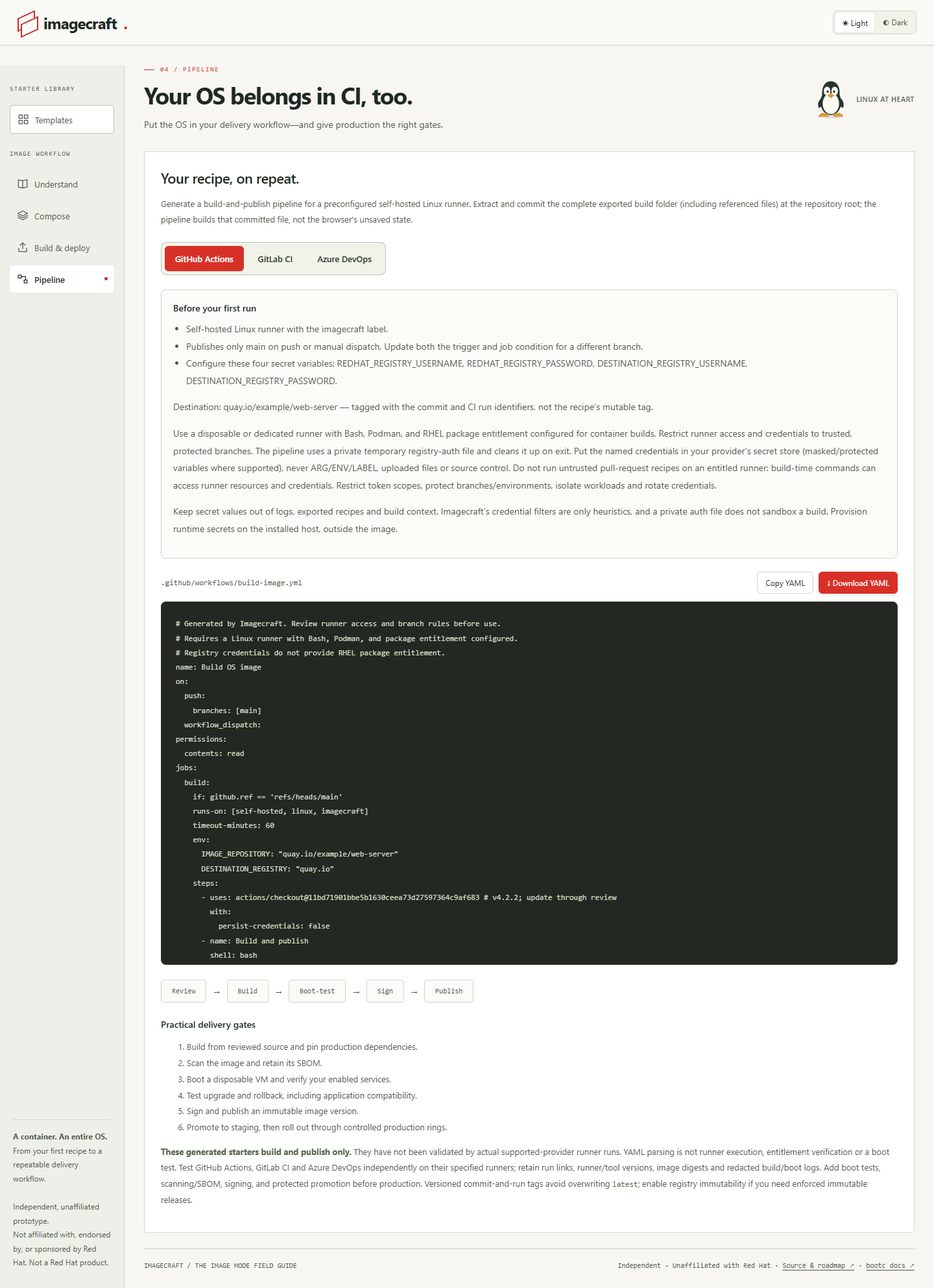
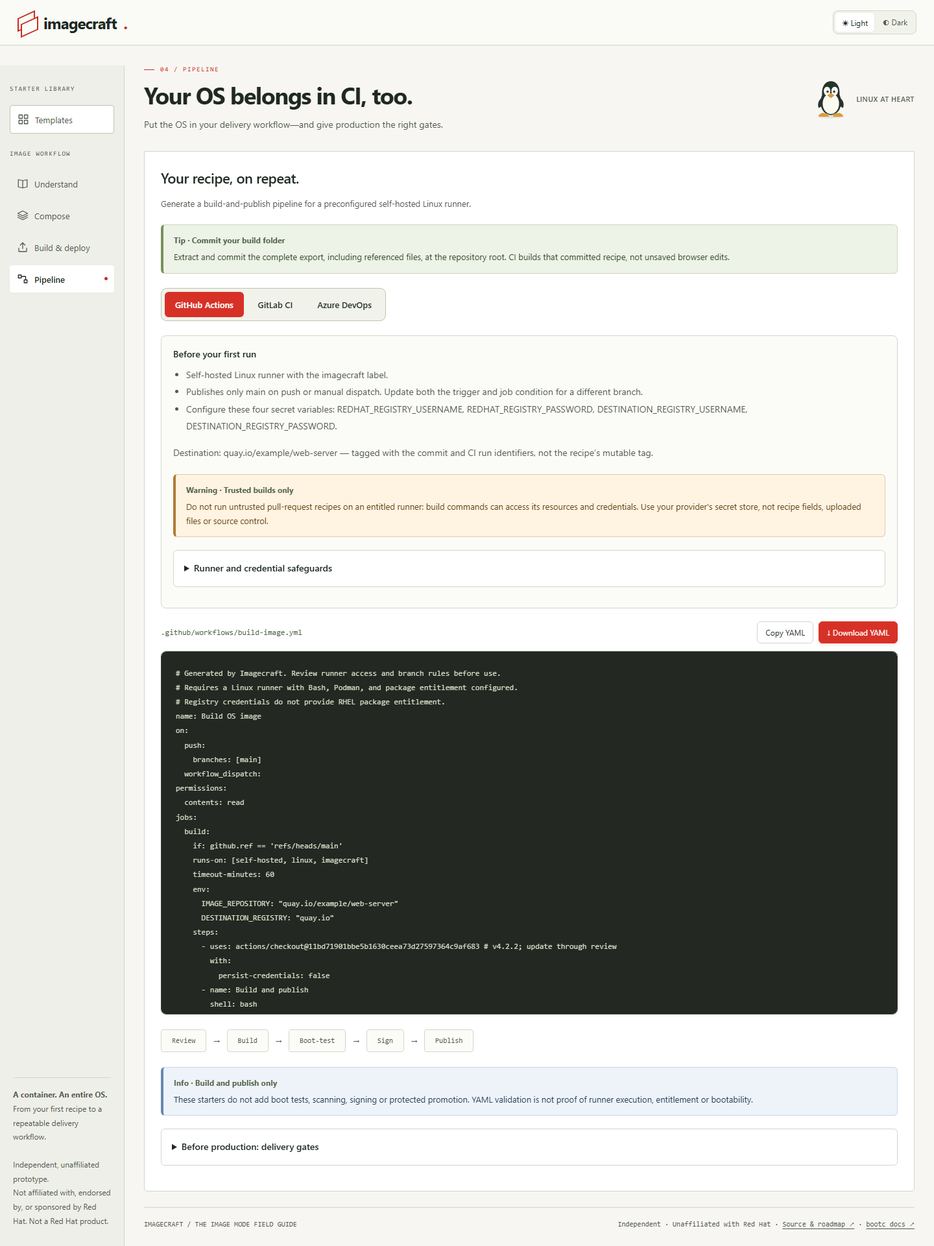
Polish guidance and copyable command terminals

diff --git a/public/index.html b/public/index.html
@@ -249,6 +249,33 @@ a.brand{color:var(--ink);text-decoration:none}
 a.brand:focus-visible,.landing-actions a:focus-visible{outline:3px solid var(--accent);outline-offset:4px}
 .recipe-options{padding:14px;border:1px solid var(--control);border-radius:4px;margin-bottom:16px;min-width:0;font-size:12px;line-height:1.6}.recipe-options summary{cursor:pointer;font-weight:600}.recipe-options label,.row-body label{display:block;font-size:12px;margin:8px 0}.recipe-options input:not([type=checkbox]),.recipe-options select,.row-body select{display:block;width:100%;min-width:0;padding:9px;background:var(--field);color:var(--ink);border:1px solid var(--control);border-radius:4px;font:12px var(--mono)}.recipe-options .hidden{display:none}.recipe-options pre{white-space:pre-wrap;overflow-wrap:anywhere;font-size:11px}.recipe-options .actions,.add-row{flex-wrap:wrap}.recipe-options .actions{gap:8px}.recipe-options .actions label{width:100%}.row-body input[type=file]{font-size:12px}.recipe-options button:focus-visible,.recipe-options input:focus-visible,.recipe-options select:focus-visible,.row-body select:focus-visible{outline:2px solid var(--green);outline-offset:2px}
 .skip-link{position:absolute;left:16px;top:-100px;z-index:5;padding:12px;background:var(--panel);color:var(--ink)}.skip-link:focus{top:12px}summary:focus-visible,h1:focus-visible,[tabindex="0"]:focus-visible{outline:2px solid var(--accent);outline-offset:4px}body[data-design="hybrid"] select:focus-visible{outline:2px solid var(--green);outline-offset:2px}[hidden]{display:none!important}
+body[data-design="hybrid"] .callout{margin:20px 0;padding:14px 16px;border:1px solid #c6d6e9;border-left:4px solid #6788af;border-radius:6px;background:#eef3fa;color:#263b57;font-size:13px;line-height:1.65}
+body[data-design="hybrid"] .callout strong{display:block;margin-bottom:4px;font-size:12px}
+body[data-design="hybrid"] .callout p{margin:0;color:inherit;font-size:13px}
+body[data-design="hybrid"] .callout-tip{background:#edf3e7;border-color:#cad8bb;border-left-color:#78915b;color:#344629}
+body[data-design="hybrid"] .callout-warning{background:#fff3e2;border-color:#e3caa7;border-left-color:#b07c37;color:#654516}
+body[data-design="hybrid"][data-color-mode="dark"] .callout{background:#202d3c;border-color:#3c536d;border-left-color:#89acd5;color:#d0e0f3}
+body[data-design="hybrid"][data-color-mode="dark"] .callout-tip{background:#243120;border-color:#435837;border-left-color:#a7c58b;color:#d7e8c8}
+body[data-design="hybrid"][data-color-mode="dark"] .callout-warning{background:#362b1e;border-color:#665136;border-left-color:#d3ac70;color:#f3dbb4}
+body[data-design="hybrid"] .guide-details{margin:14px 0;border:1px solid var(--line);border-radius:6px;padding:0 16px;background:var(--panel)}
+body[data-design="hybrid"] .guide-details summary{cursor:pointer;padding:14px 0;font-weight:600;font-size:14px;color:var(--ink)}
+body[data-design="hybrid"] .guide-details[open]{padding-bottom:8px}
+body[data-design="hybrid"] .guide-details p{font-size:14px;line-height:1.8}
+body[data-design="hybrid"] .terminal{margin:22px 0;border:1px solid var(--code-edge);border-radius:9px;overflow:hidden;background:var(--code-bg);color:var(--code-ink);box-shadow:0 8px 24px #00000016}
+body[data-design="hybrid"] .terminal-bar{display:flex;align-items:center;gap:10px;padding:11px 14px;background:var(--code-head);border-bottom:1px solid var(--code-edge);font:11px var(--mono);color:var(--code-ink)}
+body[data-design="hybrid"] .terminal-lights{display:flex;gap:5px;flex-shrink:0}
+body[data-design="hybrid"] .terminal-lights i{width:8px;height:8px;border-radius:50%;background:#e78575}
+body[data-design="hybrid"] .terminal-lights i:nth-child(2){background:#d6b469}
+body[data-design="hybrid"] .terminal-lights i:nth-child(3){background:#91b577}
+body[data-design="hybrid"] .terminal-title{flex:1;min-width:0}
+body[data-design="hybrid"] .terminal-output{padding:10px 14px;outline-offset:-3px}
+body[data-design="hybrid"] .terminal-line{display:grid;grid-template-columns:12px minmax(0,1fr) auto;gap:10px;align-items:start;padding:7px 0}
+body[data-design="hybrid"] .terminal-prompt{color:#b1c59b;font:12px/26px var(--mono);user-select:none}
+body[data-design="hybrid"] .terminal-line code{display:block;background:none;color:var(--code-ink);padding:0;border:0;overflow-x:auto;white-space:pre;font:12px/26px var(--mono)}
+body[data-design="hybrid"] .terminal-note{color:var(--code-comment);font:11px/1.7 var(--mono);padding:7px 0;overflow-wrap:anywhere}
+body[data-design="hybrid"] .terminal .button{background:var(--code-head);border-color:var(--code-edge);color:var(--code-ink);font-size:11px;padding:5px 8px;white-space:nowrap}
+body[data-design="hybrid"] .terminal .button:hover:not(:disabled){background:#394433;border-color:#718560}
+@media(max-width:600px){body[data-design="hybrid"] .terminal-bar{flex-wrap:wrap}body[data-design="hybrid"] .terminal-output{padding:8px 10px}body[data-design="hybrid"] .terminal-line{gap:7px}body[data-design="hybrid"] .terminal-line code{font-size:11px}body[data-design="hybrid"] .callout{padding:12px}body[data-design="hybrid"] .guide-details{padding-left:12px;padding-right:12px}}
 </style></head><body>
 <a class="skip-link" href="#headline">Skip to current section</a>
 <header class="top"><a class="brand" href="/" data-view="learn" aria-label="Imagecraft home — Understand"><span class="mark" aria-hidden="true"></span>imagecraft<em>.</em></a><div class="top-right"><div class="mode-switch" role="group" aria-label="Color mode"><button type="button" data-mode="light" aria-pressed="true">☀ Light</button><button type="button" data-mode="dark" aria-pressed="false">◐ Dark</button></div></div></header>
@@ -274,23 +301,40 @@ a.brand:focus-visible,.landing-actions a:focus-visible{outline:3px solid var(--a
 <div class="lint"><span><span class="lock">⌑</span> &nbsp; Final compatibility check</span><code>bootc container lint</code></div><p class="layout-note">Drag a step into place, or use ↑ ↓. FROM stays first; the check stays last.<br>Recipe text is saved in this browser; file bytes remain in memory only. Nothing is executed.</p>
 </div><div class="preview-wrap"><div class="preview"><div class="preview-head"><strong id="preview-file">Containerfile</strong><span class="live">LIVE PREVIEW</span></div><div class="preview-tabs"><button class="selected" data-tab="container" aria-pressed="true">Containerfile</button><button data-tab="build" aria-pressed="false">Build &amp; push</button></div><div class="code" id="code" tabindex="0" role="region" aria-label="Generated recipe preview"></div><div class="preview-footer"><span id="code-status">4 ordered steps · 1 base · 1 check</span><button class="mini-copy" id="copy">▢ Copy</button></div></div><div class="explanation"><span class="spark">✳</span><div><strong>Order is part of the recipe.</strong>Each row becomes an explicit instruction in its stage, in the order you choose. Install software before commands that need it. Drag the six-dot handle to rearrange steps. The red line marks the drop position; ↑ / ↓ also work.</div></div></div></div></section>
 <section class="view hidden" id="view-templates"><div class="templates-intro"><div><h2>A head start, not a black box.</h2><p>Pick a starter. Inspect every step. Make it yours.</p></div><span class="badge">6 STARTER RECIPES</span></div><div class="template-grid" id="template-grid"></div><p class="layout-note">Templates are illustrative starting points, not hardened or production-validated appliances. Your selected RHEL version is retained. Loading a template replaces the current rows after confirmation.</p></section>
-<section class="view hidden" id="view-learn"><article class="reading"><div class="landing-actions" aria-label="Start building"><a class="button primary" href="?view=compose" data-view="compose">Start composing →</a><a href="?view=compose" data-view="compose">Compose</a><a href="?view=pipeline" data-view="pipeline">Pipeline →</a></div><h2>Container tooling. A whole operating system.</h2><p>RHEL image mode uses a bootc base image containing the kernel and userspace. Define the OS with a Containerfile, publish it to an OCI registry, then install it on a VM or physical host. This is not an ordinary application container: preserve the bootc base's startup and user defaults.</p><div class="mini-flow" aria-label="Image lifecycle"><span>Compose</span>→<span>Build</span>→<span>Publish</span>→<span>Boot</span>→<span>Update</span></div>
-<h3>Instructions are ordered, and stages have boundaries</h3><p><strong>Packages and commands</strong> become build-time <code>RUN</code> instructions. Install software before commands that need it. <strong>Services</strong> enable systemd units in the final OS to start at boot; they do not start services during the build.</p><p><code>LABEL</code> is public image metadata. <code>ARG</code> is a stage-scoped build option: declare it in every stage that needs it. <code>ENV</code> persists in that image stage and influences later commands; it is not a guarantee of a systemd service's runtime environment. <code>WORKDIR</code> sets/creates the directory for later instructions in its stage; it does not set the OS boot behavior.</p><p>Add named builders in Compose's options, assign their rows, then order builders before the final OS. Artifact <code>COPY</code> can copy a file only from an earlier builder. Only explicitly copied artifacts enter the final OS; builder ARG, ENV and WORKDIR settings do not transfer. Match the target architecture and RHEL ABI (including linked libraries) and review each builder base independently. Pinning the final OS does not pin builders or package versions.</p>
-<h3>Local files, permissions and build context</h3><p>Ordered <code>COPY</code> steps include a selected local regular file, a safe <code>files/</code> source path, an explicit absolute destination file path and octal permissions (for example <code>0644</code> for configuration or <code>0755</code> for an executable). Unlike ADD, COPY does not implicitly download or extract archives. Ownership, service access and SELinux contexts still need review: chmod alone does not set a correct SELinux label. Test access under enforcing SELinux on the installed RHEL system; do not disable SELinux to make a recipe pass.</p><p>Export the complete build folder (.tar) to include the Containerfile, referenced files, allowlist <code>.containerignore</code>/<code>.dockerignore</code> rules and selected provider YAML. Extract into a new empty folder, inspect everything, and build from that folder or commit it at the repository root. A standalone Containerfile download does not include COPY inputs.</p>
+<section class="view hidden" id="view-learn"><article class="reading"><div class="landing-actions" aria-label="Start building"><a class="button primary" href="?view=compose" data-view="compose">Start composing →</a><a href="?view=compose" data-view="compose">Compose</a><a href="?view=pipeline" data-view="pipeline">Pipeline →</a></div><h2>Container tooling. A whole operating system.</h2><p>Start with a bootc base containing the kernel and userspace. Define your OS in a Containerfile, publish it to a registry, then install it on a VM or physical host. Unlike an application container, it keeps the base's startup and user defaults.</p><div class="mini-flow" aria-label="Image lifecycle"><span>Compose</span>→<span>Build</span>→<span>Publish</span>→<span>Boot</span>→<span>Update</span></div>
+<p>Imagecraft writes recipes; it never executes them.</p>
+<aside class="callout callout-tip" role="note" aria-label="Tip: start small"><strong>Tip · Start small</strong><p>Choose a starter, add your packages, then review the generated Containerfile. Commands run during the build; enabled services start when the installed OS boots.</p></aside>
+<aside class="callout callout-warning" role="note" aria-label="Warning: keep secrets outside the image"><strong>Warning · Keep secrets outside the image</strong><p>Never put credentials in commands, ARG, ENV, LABEL or selected files. Image layers and exported recipes can expose them; deleting a file in a later layer does not securely remove it. Secret checks are incomplete.</p></aside>
+<aside class="callout" role="note" aria-label="Info: rollback does not restore data"><strong>Info · OS rollback is not data recovery</strong><p>Rollback does not restore <code>/var</code> or undo schema migrations. Test upgrade and rollback with representative data, and rehearse restoring backups.</p></aside>
+<details class="guide-details"><summary>Instructions and builder stages</summary><p><strong>Packages and commands</strong> become build-time <code>RUN</code> instructions. Install software before commands that need it. <strong>Services</strong> enable systemd units in the final OS to start at boot; they do not start services during the build.</p><p><code>LABEL</code> is public image metadata. <code>ARG</code> is a stage-scoped build option: declare it in every stage that needs it. <code>ENV</code> persists in that image stage and influences later commands; it is not a guarantee of a systemd service's runtime environment. <code>WORKDIR</code> sets/creates the directory for later instructions in its stage; it does not set the OS boot behavior.</p><p>Add named builders in Compose's options, assign their rows, then order builders before the final OS. Artifact <code>COPY</code> can copy a file only from an earlier builder. Only explicitly copied artifacts enter the final OS; builder ARG, ENV and WORKDIR settings do not transfer. Match the target architecture and RHEL ABI (including linked libraries) and review each builder base independently. Pinning the final OS does not pin builders or package versions.</p>
+</details>
+<details class="guide-details"><summary>Local files, permissions and portable recipes</summary><p>Ordered <code>COPY</code> steps include a selected local regular file, a safe <code>files/</code> source path, an explicit absolute destination file path and octal permissions (for example <code>0644</code> for configuration or <code>0755</code> for an executable). Unlike ADD, COPY does not implicitly download or extract archives. Ownership, service access and SELinux contexts still need review: chmod alone does not set a correct SELinux label. Test access under enforcing SELinux on the installed RHEL system; do not disable SELinux to make a recipe pass.</p><p>Export the complete build folder (.tar) to include the Containerfile, referenced files, allowlist <code>.containerignore</code>/<code>.dockerignore</code> rules and selected provider YAML. Extract into a new empty folder, inspect everything, and build from that folder or commit it at the repository root. A standalone Containerfile download does not include COPY inputs.</p>
 <h3>Portability is explicit, not a backup service</h3><p>Recipe text and preferences are saved in this browser; file bytes stay in memory only. Reloading requires file reselection. Portable JSON includes referenced file bytes as base64 and can move a recipe between browsers after review. Limits: 5 MiB per file, 20 MiB total file bytes, 30 MiB JSON import, 100 steps and 10 builders. The versioned format is <code>imagecraft-recipe</code>, schema version 2; unsupported versions are rejected. Neither export encrypts its contents.</p>
-<h3>Secrets belong outside the image</h3><p>Never put passwords, tokens, private keys or registry authentication in commands, ARG, ENV, LABEL, selected files, portable recipes or committed build folders. Build arguments and image layers/metadata can expose them; deleting a file in a later layer is not secure removal. Configure CI credentials in the provider's secret store, and provision machine-specific runtime secrets separately on the target. Path and credential checks are conservative heuristics, not comprehensive secret detection. Review all text and file bytes yourself, including imported recipes. Imagecraft neither accepts build credentials nor executes recipes.</p>
-<h3>Configuration is not persistent application data</h3><p><code>/etc</code> contains system configuration; image defaults and local administrator changes participate in bootc's configuration merge behavior. Test conflicts when an update changes a locally modified file. <code>/var</code> holds persistent runtime state shared across deployments. Do not assume files baked under /var will replace existing databases, logs or application data during upgrades. Plan initialization, migrations, backups and restore separately.</p><p>An OS rollback switches the deployment; <strong>it does not roll back application data</strong>. A newer application may migrate data that the previous version cannot read. Test both upgrade and rollback against representative state and rehearse restoring backups.</p>
+</details>
+<details class="guide-details"><summary>Configuration, persistent state and base updates</summary><h3>Configuration is not persistent application data</h3><p><code>/etc</code> contains system configuration; image defaults and local administrator changes participate in bootc's configuration merge behavior. Test conflicts when an update changes a locally modified file. <code>/var</code> holds persistent runtime state shared across deployments. Do not assume files baked under /var will replace existing databases, logs or application data during upgrades. Plan initialization, migrations, backups and restore separately.</p><p>An OS rollback switches the deployment; <strong>it does not roll back application data</strong>. A newer application may migrate data that the previous version cannot read. Test both upgrade and rollback against representative state and rehearse restoring backups.</p>
 <h3>Review immutable bases, then test deliberate updates</h3><p>Compose can apply a manually reviewed <code>sha256</code> base digest. Inspect the candidate on your own authenticated host, verify its architecture and provenance, record the old digest, then apply the pin explicitly. It never refreshes automatically and changing RHEL version clears it. A digest fixes the base reference, not entitlement, package repositories, builder outputs or overall reproducibility. Rebuild and boot-test each candidate before promotion; keep the previous known-good image digest and a data recovery plan.</p>
-<h3>Checks have limits</h3><p>All six starters are illustrative, not production-validated appliances. Input validation and optional local review checks do not verify package availability, shell correctness, entitlement, successful builds or bootability. Automated accessibility checks do not establish WCAG compliance or replace screen-reader and user feedback.</p><p><a href="https://developers.redhat.com/products/rhel-image-mode/getting-started" target="_blank" rel="noopener">Red Hat getting-started guide ↗</a> · <a href="https://bootc-dev.github.io/bootc/filesystem.html" target="_blank" rel="noopener">bootc filesystem and persistent state ↗</a> · <a href="https://bootc-dev.github.io/bootc/man/bootc-upgrade.8.html" target="_blank" rel="noopener">bootc upgrade reference ↗</a></p></article></section>
-<section class="view hidden" id="view-build"><article class="reading"><h2>Start with a disposable Linux build host.</h2><p>You need Podman, Red Hat registry access, package repository entitlement, and write access to your destination registry. Registry authentication and package entitlement are separate prerequisites.</p><pre id="build-code"></pre><h3>For the first installation</h3><p>Use <code>bootc-image-builder</code> to derive a disk or installer artifact from the OCI image. Provide users, disk layout, and target-specific configuration. Provision the VM or hardware from that artifact; later OS updates come from the registry.</p><h3>Before rollout</h3><p>Review the complete exported build folder, not just the preview. Resolve package entitlement inside the build separately from registry login. On a disposable VM, verify first boot, users, services, network/firewall behavior and SELinux permissions/contexts. Keep an immutable destination digest, build logs and tested previous deployment. The final <code>bootc container lint</code> is not a boot test.</p><h3>After installation</h3><p>Inspect the current deployment and target with <code>bootc status</code>. Stage an upgrade only after reviewing and boot-testing the candidate on staging. A host following a digest needs a deliberate target change; <code>bootc upgrade</code> does not magically discover a new digest. Follow the selected RHEL release's bootc documentation for target changes and approval policy. Reboot during a maintenance window, then verify health again.</p><pre>sudo bootc status
+</details>
+<details class="guide-details"><summary>Credentials, check limits and further reading</summary><p>Keep passwords, tokens, private keys and registry authentication out of portable recipes and committed build folders. Use your CI provider's secret store and provision machine-specific runtime secrets on the target, outside the image. Review every instruction and file byte, including imports: credential and path filters are heuristics, not comprehensive detection. Imagecraft neither accepts build credentials nor executes recipes.</p><p>All six starters are illustrative, not production-validated appliances. Local checks do not verify package availability, shell correctness, entitlement, successful builds or bootability. Automated accessibility checks do not establish WCAG compliance or replace screen-reader and user feedback.</p><p><a href="https://developers.redhat.com/products/rhel-image-mode/getting-started" target="_blank" rel="noopener">Red Hat getting-started guide ↗</a> · <a href="https://bootc-dev.github.io/bootc/filesystem.html" target="_blank" rel="noopener">bootc filesystem and persistent state ↗</a> · <a href="https://bootc-dev.github.io/bootc/man/bootc-upgrade.8.html" target="_blank" rel="noopener">bootc upgrade reference ↗</a></p></details></article></section>
+<section class="view hidden" id="view-build"><article class="reading"><h2>Build on Linux. Test before rollout.</h2><p>Use a disposable Linux host with Podman, Red Hat registry access, package entitlement and write access to your destination registry.</p>
+<aside class="callout callout-tip" role="note" aria-label="Tip: use the complete build folder"><strong>Tip · Use the complete build folder</strong><p>Export and inspect the build folder, then extract it into a new empty directory. Run the build there: a standalone Containerfile does not include your COPY inputs.</p></aside>
+<aside class="callout" role="note" aria-label="Info: authentication and entitlement are separate"><strong>Info · Login is not package entitlement</strong><p>Registry login authenticates pulls and pushes. Configure RHEL package repository entitlement inside the build separately.</p></aside>
+<div class="warning hidden" id="build-error" role="status"></div>
+<div class="terminal"><div class="terminal-bar"><span class="terminal-lights" aria-hidden="true"><i></i><i></i><i></i></span><span class="terminal-title">Build host · Bash</span><button type="button" class="button" id="build-copy" aria-describedby="build-error">Copy commands</button></div><div class="terminal-output" id="build-code" tabindex="0" role="region" aria-label="Build host commands" aria-describedby="build-error"></div></div>
+<h3>First installation</h3><p>Use <code>bootc-image-builder</code> to create a disk or installer artifact from your OCI image. Configure users, disk layout and the target, then provision the VM or hardware. Later OS updates come from the registry.</p>
+<aside class="callout callout-warning" role="note" aria-label="Warning: lint is not a boot test"><strong>Warning · Lint is not a boot test</strong><p>Before rollout, boot a disposable VM. Verify users, services, networking, firewall rules and enforcing SELinux access. Retain build logs, an immutable image digest and a tested previous deployment.</p></aside>
+<h3>Update an installed host</h3><p>Review the deployment and target first. Boot-test the candidate on staging; a digest-pinned host needs a deliberate target change before an upgrade. Follow your RHEL release's target-change and approval instructions.</p>
+<div class="terminal"><div class="terminal-bar"><span class="terminal-lights" aria-hidden="true"><i></i><i></i><i></i></span><span class="terminal-title">Installed host · Update</span></div><div class="terminal-output" id="update-code" tabindex="0" role="region" aria-label="Installed host update commands">sudo bootc status
 sudo bootc upgrade
-# Activate in a maintenance window:
-sudo systemctl reboot
-
-# Prepare a previous-deployment rollback:
+# Activate only in a maintenance window:
+sudo systemctl reboot</div></div>
+<h3>Roll back if needed</h3><p>Rollback needs an available previous deployment and a reboot. After either update or rollback, verify the active digest and service health and retain recovery evidence.</p>
+<aside class="callout callout-warning" role="note" aria-label="Warning: rollback does not restore data"><strong>Warning · Rollback does not restore data</strong><p>It does not restore <code>/var</code> or undo schema migrations. Back up data and test application compatibility with both deployments before rollout.</p></aside>
+<div class="terminal"><div class="terminal-bar"><span class="terminal-lights" aria-hidden="true"><i></i><i></i><i></i></span><span class="terminal-title">Installed host · Rollback</span></div><div class="terminal-output" id="rollback-code" tabindex="0" role="region" aria-label="Installed host rollback commands">sudo bootc status
 sudo bootc rollback
-sudo systemctl reboot</pre><p>These commands run on an installed bootc host, not in Imagecraft. Rollback requires an available previous deployment and another reboot; it does not restore /var data or undo schema migrations. Back up data and verify compatibility with both deployments before rollout. Check the active digest and service health after reboot, and retain recovery evidence.</p><p><strong>Execution is deliberately out of scope here.</strong> No RHEL build or boot validation is performed by this website. Consult the <a href="https://bootc-dev.github.io/bootc/" target="_blank" rel="noopener">official bootc documentation ↗</a> and your RHEL release's installation/update instructions.</p></article></section>
-<section class="view hidden" id="view-pipeline"><article class="reading"><h2>Your recipe, on repeat.</h2><p>Generate a build-and-publish pipeline for a preconfigured self-hosted Linux runner. Extract and commit the complete exported build folder (including referenced files) at the repository root; the pipeline builds that committed file, not the browser's unsaved state.</p><div class="provider-switch" role="group" aria-label="Pipeline provider"><button type="button" data-provider="github" aria-pressed="true">GitHub Actions</button><button type="button" data-provider="gitlab" aria-pressed="false">GitLab CI</button><button type="button" data-provider="azure" aria-pressed="false">Azure DevOps</button></div><div class="pipeline-setup"><h3>Before your first run</h3><ul id="pipeline-requirements"></ul><p id="pipeline-target"></p><p>Use a disposable or dedicated runner with Bash, Podman, and RHEL package entitlement configured for container builds. Restrict runner access and credentials to trusted, protected branches. The pipeline uses a private temporary registry-auth file and cleans it up on exit. Put the named credentials in your provider's secret store (masked/protected variables where supported), never ARG/ENV/LABEL, uploaded files or source control. Do not run untrusted pull-request recipes on an entitled runner: build-time commands can access runner resources and credentials. Restrict token scopes, protect branches/environments, isolate workloads and rotate credentials.</p><p>Keep secret values out of logs, exported recipes and build context. Imagecraft's credential filters are only heuristics, and a private auth file does not sandbox a build. Provision runtime secrets on the installed host, outside the image.</p></div><div class="warning hidden" id="pipeline-error" role="alert"></div><div class="pipeline-toolbar"><code id="pipeline-filename"></code><div class="actions"><button type="button" class="button" id="pipeline-copy">Copy YAML</button><button type="button" class="button primary" id="pipeline-download">↓ Download YAML</button></div></div><pre class="pipeline-output" id="pipeline-code" tabindex="0" role="region" aria-label="Generated pipeline YAML"></pre><div class="mini-flow"><span>Review</span>→<span>Build</span>→<span>Boot-test</span>→<span>Sign</span>→<span>Publish</span></div><h3>Practical delivery gates</h3><ol><li>Build from reviewed source and pin production dependencies.</li><li>Scan the image and retain its SBOM.</li><li>Boot a disposable VM and verify your enabled services.</li><li>Test upgrade and rollback, including application compatibility.</li><li>Sign and publish an immutable image version.</li><li>Promote to staging, then roll out through controlled production rings.</li></ol><p><strong>These generated starters build and publish only.</strong> They have not been validated by actual supported-provider runner runs. YAML parsing is not runner execution, entitlement verification or a boot test. Test GitHub Actions, GitLab CI and Azure DevOps independently on their specified runners; retain run links, runner/tool versions, image digests and redacted build/boot logs. Add boot tests, scanning/SBOM, signing, and protected promotion before production. Versioned commit-and-run tags avoid overwriting <code>latest</code>; enable registry immutability if you need enforced immutable releases.</p></article></section>
+# Activate only in a maintenance window:
+sudo systemctl reboot</div></div>
+<p>Copying does not run anything. Commands run on your own Linux or installed bootc host; Imagecraft performs no build or boot validation. See the <a href="https://bootc-dev.github.io/bootc/" target="_blank" rel="noopener">official bootc documentation ↗</a> and your RHEL release's instructions.</p></article></section>
+<section class="view hidden" id="view-pipeline"><article class="reading"><h2>Your recipe, on repeat.</h2><p>Generate a build-and-publish pipeline for a preconfigured self-hosted Linux runner.</p><aside class="callout callout-tip" role="note" aria-label="Tip: commit your build folder"><strong>Tip · Commit your build folder</strong><p>Extract and commit the complete export, including referenced files, at the repository root. CI builds that committed recipe, not unsaved browser edits.</p></aside><div class="provider-switch" role="group" aria-label="Pipeline provider"><button type="button" data-provider="github" aria-pressed="true">GitHub Actions</button><button type="button" data-provider="gitlab" aria-pressed="false">GitLab CI</button><button type="button" data-provider="azure" aria-pressed="false">Azure DevOps</button></div><div class="pipeline-setup"><h3>Before your first run</h3><ul id="pipeline-requirements"></ul><p id="pipeline-target"></p><aside class="callout callout-warning" role="note" aria-label="Warning: trusted builds only"><strong>Warning · Trusted builds only</strong><p>Do not run untrusted pull-request recipes on an entitled runner: build commands can access its resources and credentials. Use your provider's secret store, not recipe fields, uploaded files or source control.</p></aside><details class="guide-details"><summary>Runner and credential safeguards</summary><p>Use a disposable or dedicated runner with Bash, Podman and RHEL package entitlement. Restrict access to trusted, protected branches; scope tokens, protect environments, isolate workloads and rotate credentials. Use masked/protected secret variables where supported.</p><p>The pipeline's private temporary registry-auth file is cleaned up on exit, but does not sandbox a build. Keep secrets out of logs, exported recipes and build context. Credential filters are incomplete; provision runtime secrets on the installed host, outside the image.</p></details></div><div class="warning hidden" id="pipeline-error" role="alert"></div><div class="pipeline-toolbar"><code id="pipeline-filename"></code><div class="actions"><button type="button" class="button" id="pipeline-copy">Copy YAML</button><button type="button" class="button primary" id="pipeline-download">↓ Download YAML</button></div></div><pre class="pipeline-output" id="pipeline-code" tabindex="0" role="region" aria-label="Generated pipeline YAML"></pre><div class="mini-flow"><span>Review</span>→<span>Build</span>→<span>Boot-test</span>→<span>Sign</span>→<span>Publish</span></div><aside class="callout" role="note" aria-label="Info: build and publish only"><strong>Info · Build and publish only</strong><p>These starters do not add boot tests, scanning, signing or protected promotion. YAML validation is not proof of runner execution, entitlement or bootability.</p></aside><details class="guide-details"><summary>Before production: delivery gates</summary><ol><li>Build from reviewed source and pin production dependencies.</li><li>Scan the image and retain its SBOM.</li><li>Boot a disposable VM and verify your enabled services.</li><li>Test upgrade and rollback, including application compatibility.</li><li>Sign and publish an immutable image version.</li><li>Promote to staging, then roll out through controlled production rings.</li></ol><p>These starters have not been validated by actual supported-provider runner runs. Test each provider independently on its specified runner; retain run links, tool versions, image digests and redacted build/boot logs. Commit-and-run tags avoid overwriting <code>latest</code>; enable registry immutability for enforced immutable releases.</p></details></article></section>
 <footer class="bottom"><span id="footer-label">IMAGECRAFT / STUDIO EXPLORATION</span><span>Independent · Unaffiliated with Red Hat · <a href="https://github.com/erikgraa/imagecraft" target="_blank" rel="noopener">Source & roadmap ↗</a> · <a href="https://bootc-dev.github.io/bootc/" target="_blank" rel="noopener">bootc docs ↗</a></span></footer></main><div class="toast hidden" id="toast" role="status"></div>
 <script src="./recipe-order.js"></script>
 <script src="./pipeline-generator.js"></script>
@@ -381,8 +425,28 @@ function paintPipeline(){
 document.querySelectorAll('[data-provider]').forEach(button=>button.addEventListener('click',()=>{pipelineProvider=button.dataset.provider;try{localStorage.setItem('imagecraft-pipeline-provider',pipelineProvider);}catch(e){}paintPipeline()}));
 $('pipeline-copy').addEventListener('click',async()=>{if($('pipeline-copy').disabled)return;try{await navigator.clipboard.writeText(generatePipeline(pipelineProvider,recipe.image).content);toast('Pipeline YAML copied')}catch(e){toast('Clipboard unavailable. Download the YAML instead.')}});
 $('pipeline-download').addEventListener('click',()=>{if($('pipeline-download').disabled)return;const artifact=generatePipeline(pipelineProvider,recipe.image),url=URL.createObjectURL(new Blob([artifact.content],{type:'text/yaml'})),link=document.createElement('a');link.href=url;link.download=artifact.filename.split('/').pop();link.click();setTimeout(()=>URL.revokeObjectURL(url),1000);toast('Save as '+artifact.filename)});
-function buildCommands(){if(imageError())return '# Enter a valid image reference to generate build commands.\n';const image=recipe.image.trim(),host=image.split('/')[0];return ['# Linux build host: configure package entitlement separately','podman login registry.redhat.io',`podman build -t ${image} .`,`podman login ${host}`,`podman push ${image}`,'','# Pin an immutable release reference for production'].join('\n')+'\n';}
-function paintCode(){const text=tab==='container'?containerfile():buildCommands();$('code').replaceChildren();let instruction=null;text.trimEnd().split('\n').forEach((line,i)=>{const step=tab==='container'&&line.match(/^# (\d+) \/ /);if(step)instruction=recipe.rows[Number(step[1])-1]?.id;if(line==='# Final compatibility check'||line.startsWith('FROM '))instruction=null;const div=document.createElement('div');div.className='code-line';if(instruction)div.dataset.rowId=instruction;const n=document.createElement('span');n.className='line-number';n.textContent=i+1;const value=document.createElement('span');value.className=line.startsWith('#')?'comment':/^(FROM|RUN|COPY|LABEL|ARG|ENV|WORKDIR)/.test(line)?'code-key':'code-text';value.textContent=line||' ';div.append(n,value);$('code').append(div)});$('preview-file').textContent=tab==='container'?'Containerfile':'build.sh';$('build-code').textContent=buildCommands();$('base-ref').textContent=RecipeEngine.baseReference(recipe);paintOptions();$('step-count').textContent=`${recipe.rows.length} steps`;$('code-status').textContent=`${recipe.rows.length} ordered steps · ${recipe.stages.length+1} stage(s) · 1 final check`;const problems=errors();$('warning').classList.toggle('hidden',view!=='compose'||problems.length===0);$('warning').textContent=problems.length?'Recipe needs attention: '+[...new Set(problems)].join(' '):'';$('registry').setAttribute('aria-invalid',String(!!imageError()));$('download').disabled=problems.length>0;$('copy').disabled=problems.length>0;const focused=document.activeElement?.closest('#rows .row');if(focused)highlightInstruction(focused.dataset.id);paintPipeline();}
+function buildCommands(){if(imageError())return '# Enter a valid image reference to generate build commands.\n';const image=recipe.image.trim(),host=image.split('/')[0];return ['# Run from your reviewed, extracted build folder','podman login registry.redhat.io',`podman build -t ${image} .`,`podman login ${host}`,`podman push ${image}`,'','# Pin an immutable release reference for production'].join('\n')+'\n';}
+function paintTerminal(id,text,disabled=false){
+ const output=$(id);output.replaceChildren();
+ for(const command of text.trim().split('\n')){
+  if(!command.trim())continue;
+  const line=document.createElement('div');
+  if(command.startsWith('#')){line.className='terminal-note';line.textContent=command;}
+  else{
+   line.className='terminal-line';
+   const prompt=document.createElement('span');prompt.className='terminal-prompt';prompt.setAttribute('aria-hidden','true');prompt.textContent='$';
+   const code=document.createElement('code');code.textContent=command;code.tabIndex=0;
+   const button=document.createElement('button');button.type='button';button.className='button';button.textContent='Copy';button.dataset.copyCommand=command;button.disabled=disabled;button.setAttribute('aria-label','Copy command: '+command);
+   line.append(prompt,code,button);
+  }
+  output.append(line);
+ }
+}
+async function copyCommandText(text){try{await navigator.clipboard.writeText(text);toast('Commands copied · nothing executed');}catch(error){toast('Clipboard unavailable. Select the command text and copy it manually.');}}
+$('view-build').addEventListener('click',event=>{const button=event.target.closest('[data-copy-command]');if(button&&!button.disabled)copyCommandText(button.dataset.copyCommand);});
+$('build-copy').addEventListener('click',()=>{if(!$('build-copy').disabled)copyCommandText([...$('build-code').querySelectorAll('code')].map(code=>code.textContent).join('\n'));});
+for(const id of ['update-code','rollback-code'])paintTerminal(id,$(id).textContent);
+function paintCode(){const problems=errors(),text=tab==='container'?containerfile():buildCommands();$('code').replaceChildren();let instruction=null;text.trimEnd().split('\n').forEach((line,i)=>{const step=tab==='container'&&line.match(/^# (\d+) \/ /);if(step)instruction=recipe.rows[Number(step[1])-1]?.id;if(line==='# Final compatibility check'||line.startsWith('FROM '))instruction=null;const div=document.createElement('div');div.className='code-line';if(instruction)div.dataset.rowId=instruction;const n=document.createElement('span');n.className='line-number';n.textContent=i+1;const value=document.createElement('span');value.className=line.startsWith('#')?'comment':/^(FROM|RUN|COPY|LABEL|ARG|ENV|WORKDIR)/.test(line)?'code-key':'code-text';value.textContent=line||' ';div.append(n,value);$('code').append(div)});$('preview-file').textContent=tab==='container'?'Containerfile':'build.sh';paintTerminal('build-code',buildCommands(),problems.length>0);$('build-copy').disabled=problems.length>0;$('base-ref').textContent=RecipeEngine.baseReference(recipe);paintOptions();$('step-count').textContent=`${recipe.rows.length} steps`;$('code-status').textContent=`${recipe.rows.length} ordered steps · ${recipe.stages.length+1} stage(s) · 1 final check`;$('build-error').classList.toggle('hidden',problems.length===0);$('build-error').textContent=problems.length?'Fix recipe errors in Compose before copying build commands.':'';$('warning').classList.toggle('hidden',view!=='compose'||problems.length===0);$('warning').textContent=problems.length?'Recipe needs attention: '+[...new Set(problems)].join(' '):'';$('registry').setAttribute('aria-invalid',String(!!imageError()));$('download').disabled=problems.length>0;$('copy').disabled=problems.length>0;const focused=document.activeElement?.closest('#rows .row');if(focused)highlightInstruction(focused.dataset.id);paintPipeline();}
 const stepLabels={packages:'Install packages',command:'Run command',service:'Enable service',copy:'COPY local file',label:'LABEL metadata',arg:'ARG build option',env:'ENV variable',workdir:'WORKDIR',artifact:'COPY builder artifact'};
 const help={copy:'Local regular file → absolute destination file. Explicit octal permissions; no implicit downloads or extraction. Review SELinux labeling on RHEL.',artifact:'Copy a file from an earlier builder stage; match output architecture and RHEL ABI. Explicit octal permissions.',label:'key=value public image metadata. Never store secrets.',arg:'NAME or NAME=default. Build-time only and stage-scoped; redeclare in each builder/OS stage. Not secret storage.',env:'NAME=value persists in this image stage and influences later RUN instructions. Not secret storage.',workdir:'Absolute path. Creates/sets the directory for later RUN and relative operations in this stage. Does not change bootc startup defaults.',packages:'Space-separated package names. Installed at build time.',command:'A single-line shell command. Runs during the build, not on first boot.',service:'Enable a systemd unit to start when the installed OS boots.'};
 let dragState=null;

diff --git a/CONTRIBUTING.md b/CONTRIBUTING.md
@@ -18,7 +18,7 @@ The root URL opens **Understand**. Direct links use `?view=compose`, `?view=pipe
 
 There are no runtime package dependencies. YAML, Playwright and axe are development-only. `npm run check` covers recipe normalization/generation, file/path/credential heuristics, binary/base64 and USTAR exports, stage ordering/pins, pipeline YAML, static serving, release-note extraction and multi-platform publication guards. It does not require a browser.
 
-`npm run test:browser` starts and stops its own static server, then runs Chromium keyboard/semantic/axe checks across desktop (1280×900) and mobile (390×844), in light and dark. Coverage includes the Understand homepage, direct-link reloads, mouse/keyboard logo home navigation, Back/Forward and recipe/preference preservation, composition and preview controls, skip navigation, row reordering/boundaries/focus, COPY/file reselection, stage and pin options, persistent error associations (including file rejection with collapsed options), real JSON/tar downloads and import round-trips, reviewed pin confirmation/version-change clearing, templates, guided views and each provider. All axe rules run without exclusions; a passing result is not a WCAG certification or a screen-reader test. Screenshots are saved in `test-results/`; failures retain traces and screenshots there. These ignored files can contain recipe content: review before sharing.
+`npm run test:browser` starts and stops its own static server, then runs Chromium keyboard/semantic/axe checks across desktop (1280×900) and mobile (390×844), in light and dark. Coverage includes the Understand homepage, direct-link reloads, mouse/keyboard logo home navigation, Back/Forward and recipe/preference preservation, composition and preview controls, skip navigation, row reordering/boundaries/focus, COPY/file reselection, stage and pin options, persistent error associations (including file rejection with collapsed options), real JSON/tar downloads and import round-trips, reviewed pin confirmation/version-change clearing, templates, guided disclosures and each provider, plus terminal command-copy accuracy, invalid-recipe disabling and clipboard-denial/unavailability fallback. Terminal copying must exclude decorative prompts/comments and never execute commands; keep installed-host update and rollback actions separate. All axe rules run without exclusions; a passing result is not a WCAG certification or a screen-reader test. Screenshots are saved in `test-results/`; failures retain traces and screenshots there. These ignored files can contain recipe content: review before sharing.
 
 The default browser-test port is 18374; set `IMAGECRAFT_TEST_PORT` to an unused port if needed. Tests refuse to reuse an existing server, so they cannot accidentally validate another checkout. On Linux install browser system dependencies with `npx playwright install --with-deps chromium` (normal package-install permissions required). The actual delivery `check` job runs both commands before native container checks, publication, Pages and release jobs. CI also runs actionlint. Browser packages are not copied into the runtime image or deployed to Pages.
 
